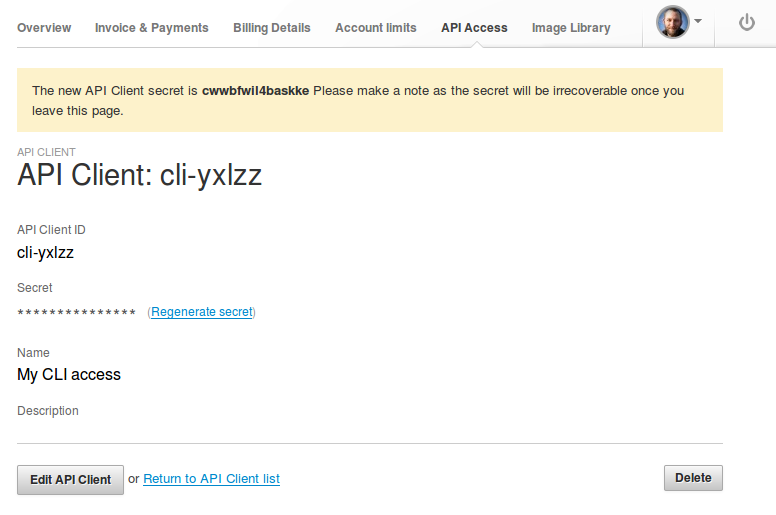
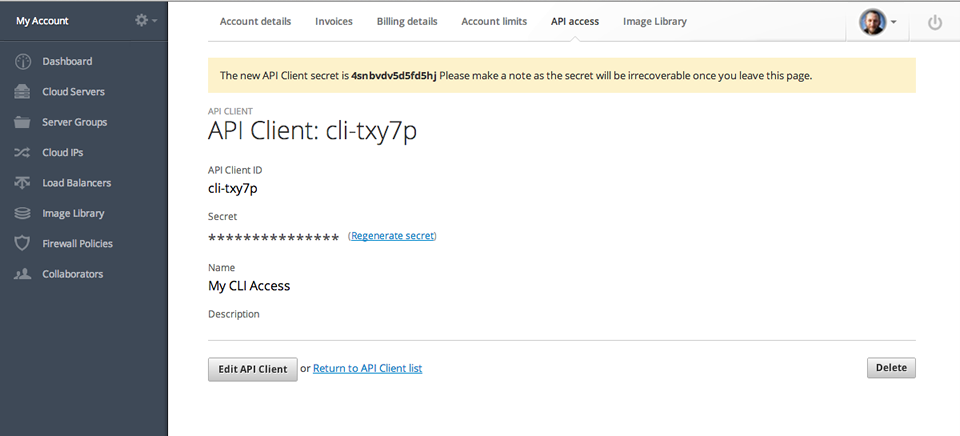
Update API Client documentation

diff --git a/content/guides/manager/api-clients.md b/content/guides/manager/api-clients.md
@@ -4,13 +4,14 @@ title: Managing API Clients
 section: Brightbox Manager
 ---
 
-An API Client is required whenever you authenticate with the API, such as when you use the [command line interface](/guides/cli/).
+An API Client can be used to provide API access to a single account.
+API Clients are most useful when writing scripts, such as when you're writing [Fog](/guides/ruby/fog/) scripts or automating use of the [command line interface](/guides/cli/).
 
-You can create multiple API Clients, which allows you to selectively revoke access at a later date. For example, you might allocate an API Client for each member of your team.
+You can create multiple API Clients, which allows you to selectively revoke access at a later date. For example, you might allocate an API Client for each script you create.
 
 ### Generating API Clients
 
-To generate a new API Client, click the "Accont & Billing" button in the sidebar and then the "API Access" tab at the top right.
+To generate a new API Client, click the settings button (the cog) in the sidebar and then the `API Access` link from the dropdown.
 
 ![](/images/manage-api-clients.png)
 
